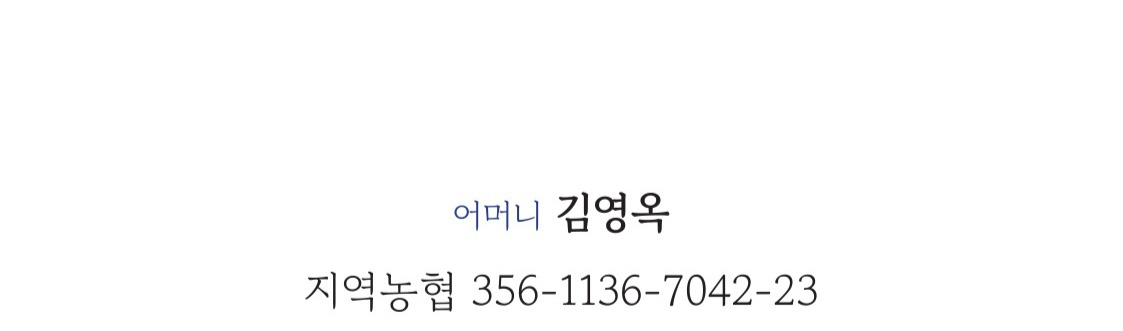
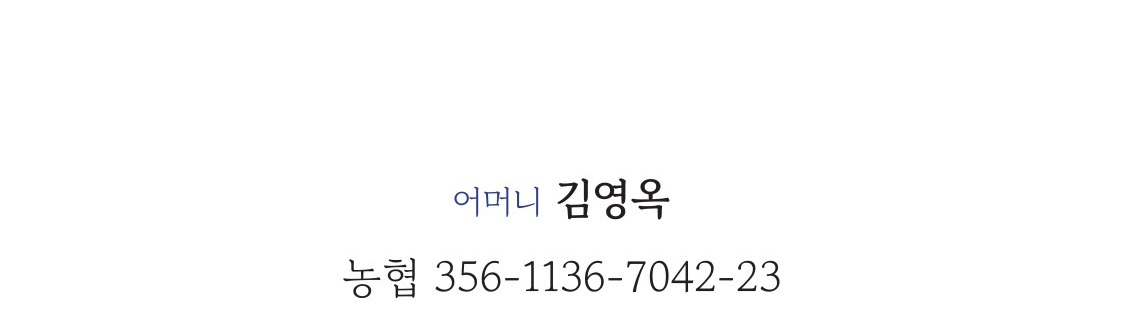
#어머님 계좌 수정

Changed region(s): [[0.2805, 0.7927, 0.748, 0.9451], [0.4052, 0.5488, 0.5922, 0.7012]]

diff --git a/index.html b/index.html
@@ -540,7 +540,7 @@
 			</button>
         </p>
 
-        <img src="images/last2.jpg" alt="추가 이미지" style="max-width: 100%; height: auto;">
+        <img src="images/last22.jpg" alt="추가 이미지" style="max-width: 100%; height: auto;">
         <p style="margin-bottom: 10px;">
 			<button class="button-img-cp" onclick="copy_to_clipboard(3561136704223);"> 
 				<img src="https://i.imgur.com/64ZwWNj.png" style="width: 60px;cursor: pointer;border-radius: 4px;">
